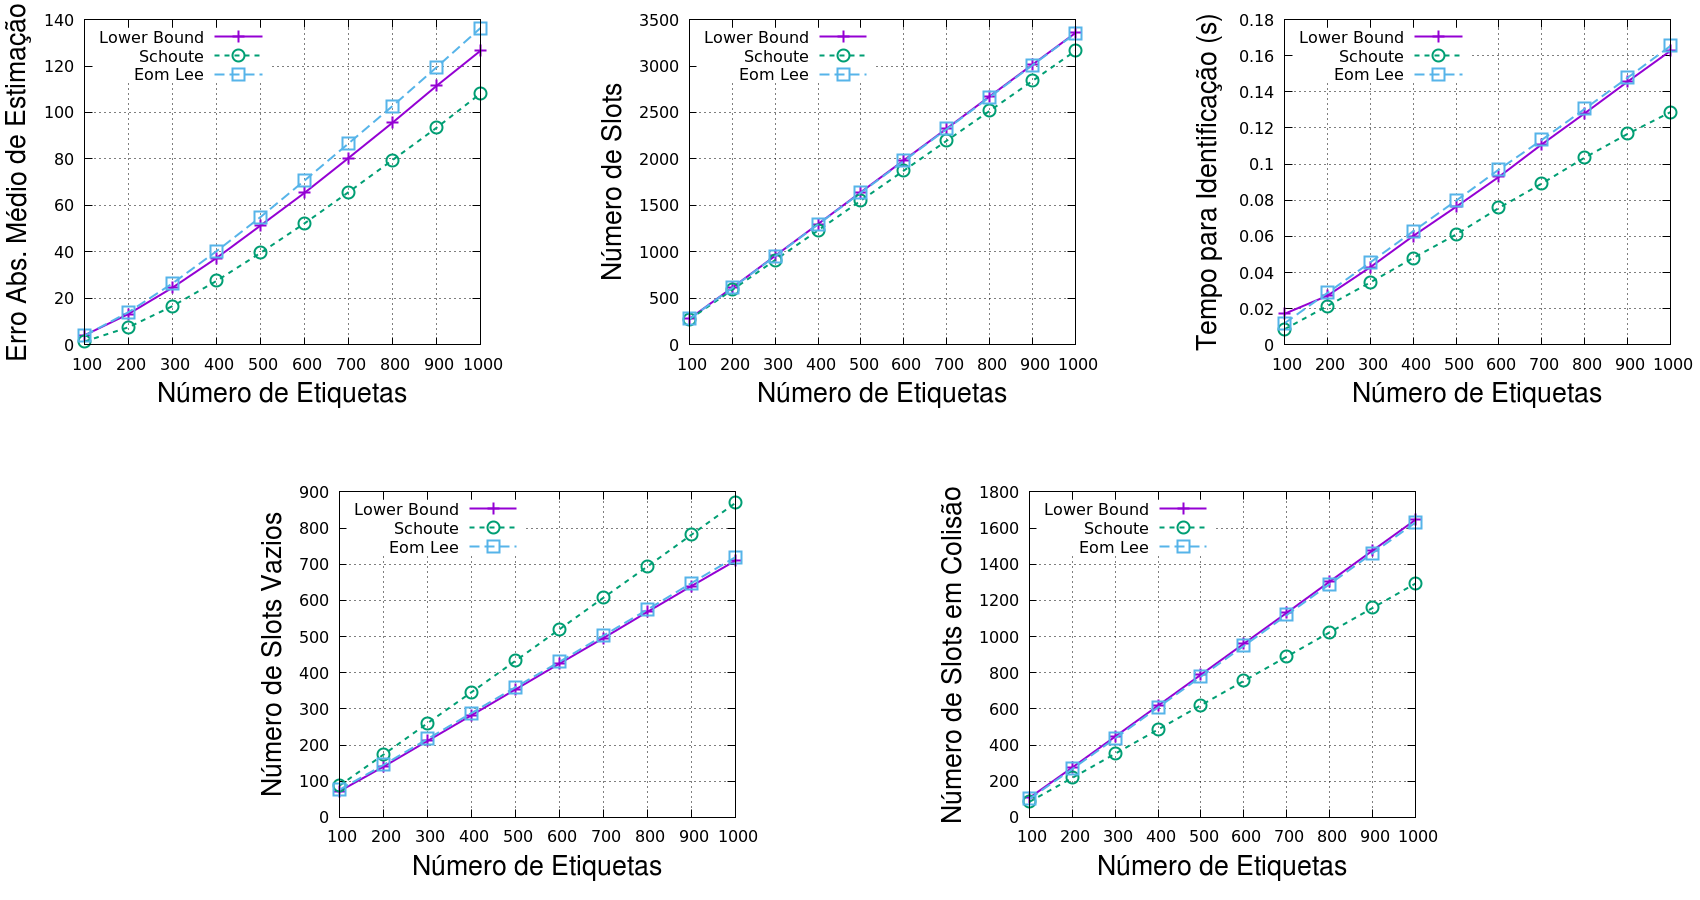
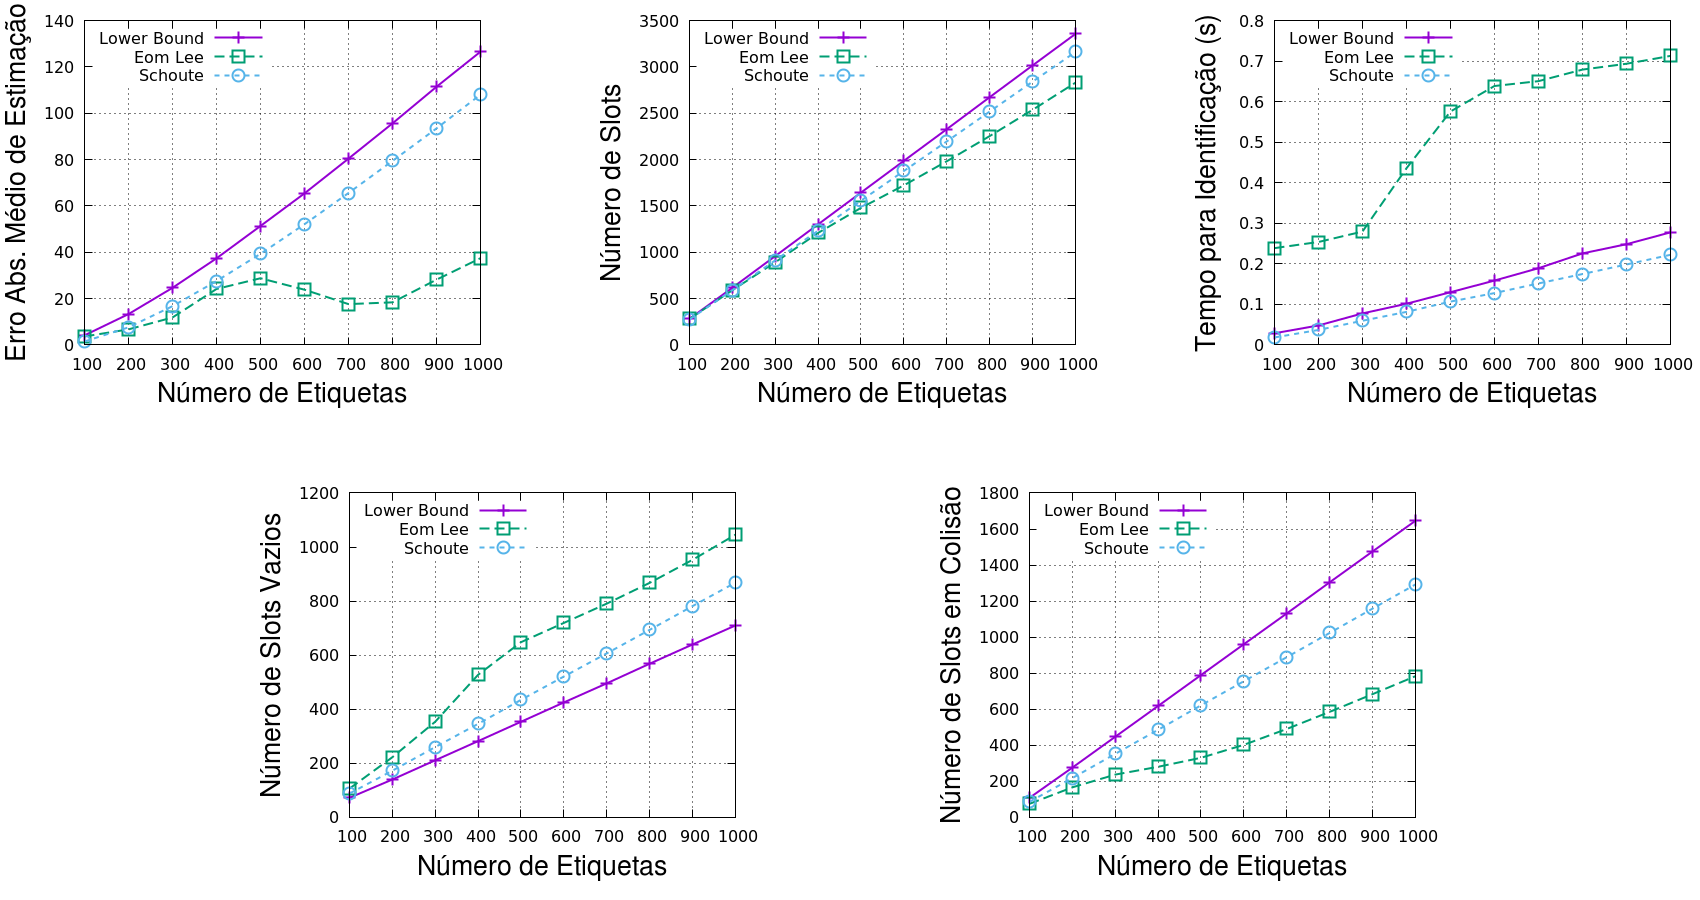
Update

diff --git a/estimators.cpp b/estimators.cpp
@@ -124,15 +124,13 @@ void Estimator::simulate(const EstimationParameters &parameters) const {
 				for(int i = 0; i < tag_count; ++i) {
 					slot = fast_rand() % frame_size;
 				
-					if(frame[slot] == -1) { // Collision slot, ignore
-
-					} else if(frame[slot] == 0) { // Empty slot
+					if(frame[slot] == 0) { // Empty slot
 						++silenced_tags;
 						
 						frame[slot] = 1;
 
 						++success;
-					} else { // First collison
+					} else if(frame[slot] == 1) { // First collison
 						--silenced_tags;
 						
 						frame[slot] = -1;
@@ -147,6 +145,8 @@ void Estimator::simulate(const EstimationParameters &parameters) const {
 				result.collision_slots[idx] += collision;
 			
 				frame_size = this->calculate_frame_size(idle, success, collision);
+				
+				this->get_name();
 				
 				tag_count -= silenced_tags;
 				
@@ -195,5 +195,5 @@ int EomLee::calculate_frame_size(int idle, int success, int collision) const {
 		prev_yk = yk;
 	}	
 
-	return ceil(yk * collision);
+	return floor(yk * collision);
 }

diff --git a/plot.cpp b/plot.cpp
@@ -51,6 +51,8 @@ int main(int argc, char* argv[]) {
 	end_time = high_resolution_clock::now();
 	
 	cout << "Execution time in ms: " << duration_cast<milliseconds>(end_time - start_time).count() << endl;
+	
+	usleep(100000);
 
 	g.cmd("set terminal pngcairo size 1700,900");
 	g.cmd("set output 'graph.png'");
